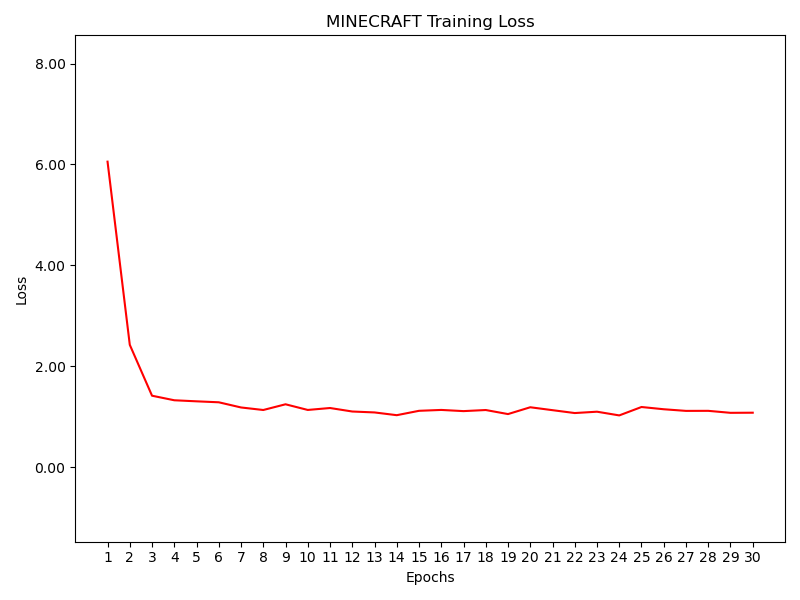
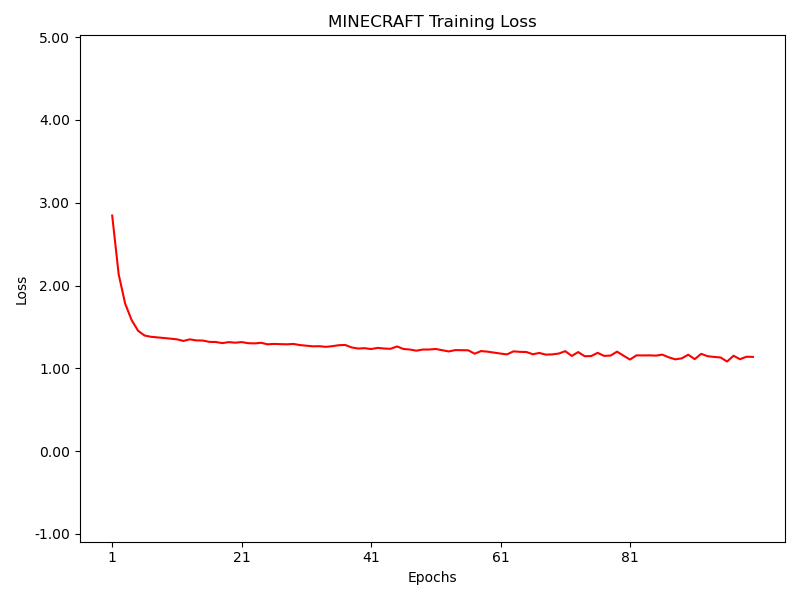
Aggiunta Loss di Minecraft per GAT e GS

diff --git a/scripts/GNN/GraphSAGE.py b/scripts/GNN/GraphSAGE.py
@@ -297,7 +297,7 @@ def test(model, link_predictor, test_loader, threshold, path, desc):
     neg_pred = []
 
 
-    with torch.no_grad(), tqdm(total=len(test_loader), desc="Testing") as progress_bar:   # senza tener traccia dei gradienti
+    with torch.no_grad(), tqdm(total=len(test_loader), desc="Validation") as progress_bar:   # senza tener traccia dei gradienti
         for i, batch in enumerate(test_loader):
             # print(f"Batch {i}")
             # Attributi del batch
@@ -354,8 +354,8 @@ def test(model, link_predictor, test_loader, threshold, path, desc):
 
 
 def load_models(path, num_layers):
-    model = GNNStack(input_dim=768, hidden_dim=768, output_dim=768, num_layers=num_layers, dropout=0.6)
-    link_predictor = LinkPredictor(in_channels=768, hidden_channels=128, out_channels=1, num_layers=num_layers, dropout=0.6) 
+    model = GNNStack(input_dim=768, hidden_dim=768, output_dim=384, num_layers=3, dropout=0.3)                          # MiniLM 384 - MPNet 768
+    link_predictor = LinkPredictor(in_channels=384, hidden_channels=192, out_channels=1, num_layers=3, dropout=0.3) 
 
     checkpoint = torch.load(path, map_location=torch.device('cpu'), weights_only=True)  
     model.load_state_dict(checkpoint['model_state_dict'])
@@ -424,23 +424,21 @@ if __name__ == "__main__":
         edges_path='dataset/STAC/test_subindex.json'
     ) """
 
-    """ train_dag = CustomEduDataset(
+    train_dag = CustomEduDataset(
         embeddings_path='embeddings/MPNet/MINECRAFT_training_embeddings.json',
         edges_path='dataset/MINECRAFT/TRAIN_307_bert.json'
     )
     val_dag = CustomEduDataset(
         embeddings_path='embeddings/MPNet/MINECRAFT_val_embeddings.json',
-        edges_path='dataset/MINECRAFT/VAL_all.json',
-        nome_dataset= "MINECRAFT",
-        isValidation= True
+        edges_path='dataset/MINECRAFT/VAL_all.json'
     )
     test_dag = CustomEduDataset(
         embeddings_path='embeddings/MPNet/MINECRAFT_testing133_embeddings.json',
         edges_path='dataset/MINECRAFT/TEST_133.json'
     )
-    """
 
-    train_dag = CustomEduDataset(
+
+    """ train_dag = CustomEduDataset(
         embeddings_path='embeddings/MPNet/MOLWENI_training_embeddings.json',
         edges_path='dataset/MOLWENI/train.json'
     )
@@ -453,7 +451,7 @@ if __name__ == "__main__":
     test_dag = CustomEduDataset(
         embeddings_path='embeddings/MPNet/MOLWENI_testing_embeddings.json',
         edges_path='dataset/MOLWENI/test.json'
-    )
+    ) """
     
 
     """
@@ -464,17 +462,17 @@ if __name__ == "__main__":
     batch_size = 32
     train_loader = DataLoader(train_dag, batch_size=batch_size, shuffle=True, collate_fn=collate_fn)
     test_loader = DataLoader(test_dag, batch_size=batch_size, shuffle=False, collate_fn=collate_fn)
-    val_loader = DataLoader(val_dag, batch_size=1, shuffle=False, collate_fn=collate_fn)
+    val_loader = DataLoader(val_dag, batch_size=32, shuffle=False, collate_fn=collate_fn)
 
 
-    model = GNNStack(input_dim=768, hidden_dim=768, output_dim=768, num_layers=3, dropout=0.6)                          # MiniLM 384 - MPNet 768
-    link_predictor = LinkPredictor(in_channels=768, hidden_channels=128, out_channels=1, num_layers=3, dropout=0.6)     # MiniLM 128 - MPNet 384
+    model = GNNStack(input_dim=768, hidden_dim=768, output_dim=384, num_layers=3, dropout=0.3)                          # MiniLM 384 - MPNet 768
+    link_predictor = LinkPredictor(in_channels=384, hidden_channels=192, out_channels=1, num_layers=3, dropout=0.3)     # MiniLM 128 - MPNet 384
 
     optimizer = torch.optim.Adam(list(model.parameters()) + list(link_predictor.parameters()), lr=0.0001)
-    model, link_predictor = load_models("../../pretrain_model/Molweni_30epc_3l_pretrained_models.pth", num_layers = 3)
-    #train(model, 10, link_predictor, train_loader, optimizer, path="plot_loss/GS_train.png", desc= "MOLWENI Training Loss")
+    model, link_predictor = load_models("pretrain_model_GS/Minecraft_pretrained_models_1.pth", num_layers = 3)
+    # train(model, 100, link_predictor, train_loader, optimizer, path="plot_loss/GS_Minecraft_train.png", desc= "MINECRAFT Training Loss")
     
-    # save_models(model, link_predictor, 'pretrain_model/MOLWENI_30epc_3l_pretrained_models.pth')
+    # save_models(model, link_predictor, 'pretrain_model_GS/Minecraft_pretrained_models_1.pth')
 
-    # test(model, link_predictor, test_loader, threshold=0.5, path="plot_loss/GS_test.png", desc= "MOLWENI Testing Loss")
-    validate(val_loader, model, link_predictor, threshold=0.5)
+    test(model, link_predictor, val_loader, threshold=0.7, path="plot_loss/GS_Minecraft_test.png", desc= "MINECRAFT Validation Loss")
+    # validate(val_loader, model, link_predictor, threshold=0.5)

diff --git a/scripts/GNN/GNN_new_test.py b/scripts/GNN/GNN_new_test.py
@@ -144,7 +144,7 @@ def test(dataset_filename, embs_filename, loss_path, loss_desc, model, link_pred
     num_samples = min(batch_size, n)
     sampled_dialogues = random.sample(range(n), num_samples)
     test_loder = DataLoader([i for i in range(n)], batch_size=batch_size, shuffle=True)
-    with tqdm(total=len(test_loder), desc="Validating") as progress_bar:
+    with tqdm(total=len(test_loder), desc="Validation") as progress_bar:
         for i_batch, sampled_dialogues in enumerate(test_loder, start=1):
             dialogue_losses = []
 
@@ -305,36 +305,33 @@ def predict(dialogue_json, old_embs, target_node, new_edus_emb, model, link_pred
 
 if __name__ == '__main__':
     
-    trained_model = GATLinkPrediction(embedding_dimension=768, hidden_channels=384, num_layers=2, dropout=0.5, heads=4)
-    trained_link_predictor = LinkPredictorMLP(in_channels=384, hidden_channels=192, out_channels=1, num_layers=2, dropout=0.5)    
+    trained_model = GATLinkPrediction(embedding_dimension=768, hidden_channels=384, num_layers=3, dropout=0.5, heads=32)
+    trained_link_predictor = LinkPredictorMLP(in_channels=384, hidden_channels=192, out_channels=1, num_layers=3, dropout=0.5)    
     # trained_model, trained_link_predictor = load_models(file_path)
-
 
     # MINECRAFT
     file_path = 'pretrained_models_MINECRAFT.pth'
     trained_model, trained_link_predictor = train('dataset/MINECRAFT/TRAIN_307_bert.json',
                         "embeddings/MPNet/MINECRAFT_training_embeddings.json", 
-                        "plot_loss/GAT_MINECRAFT_train.png", "MINECRAFT Training Loss", 
-                        num_epochs=10, batch_size=32, learning_rate=0.01, model=trained_model, link_predictor=trained_link_predictor)
+                        "plot_loss/GAT_MINECRAFT_train4.png", "MINECRAFT Training Loss", 
+                        num_epochs=30, batch_size=32, learning_rate=0.001, model=trained_model, link_predictor=trained_link_predictor)
     
     # --- VALIDAZIONE ---
     test('dataset/MINECRAFT/VAL_all.json', 'embeddings/MPNet/MINECRAFT_val_embeddings.json',
-            "plot_loss/GAT_MINECRAFT_test.png", "MINECRAFT Testing Loss", 
-            trained_model, trained_link_predictor)
-    
+            "plot_loss/GAT_MINECRAFT_test4.png", "MINECRAFT Validation Loss", 
+            trained_model, trained_link_predictor, batch_size=32)
 
-    # MOLWENI
-    """ 
-    file_path = 'pretrained_models_MOLWENI.pth'
+    # MOLWENI    
+    """ file_path = 'pretrained_models_MOLWENI.pth'
     trained_model, trained_link_predictor = train('dataset/MOLWENI/train.json',
                         "embeddings/MPNet/MOLWENI_training_embeddings.json", 
-                        "plot_loss/GAT_MOLWENI_train.png", "MOLWENI Training Loss", 
-                        num_epochs=1, model=trained_model, link_predictor=trained_link_predictor)
+                        "plot_loss/GAT_MOLWENI_train1.png", "MOLWENI Training Loss", 
+                        num_epochs=10, batch_size=32, learning_rate=0.001, model=trained_model, link_predictor=trained_link_predictor)
     
     # --- VALIDAZIONE ---
     test('dataset/MOLWENI/dev.json', 'embeddings/MPNet/MOLWENI_val_embeddings.json',
-            "plot_loss/GAT_MOLWENI_test.png", "MOLWENI Testing Loss", 
-            trained_model, trained_link_predictor) """
+            "plot_loss/GAT_MOLWENI_test1.png", "MOLWENI Validation Loss", 
+            trained_model, trained_link_predictor, batch_size=32)  """
     
 
     
